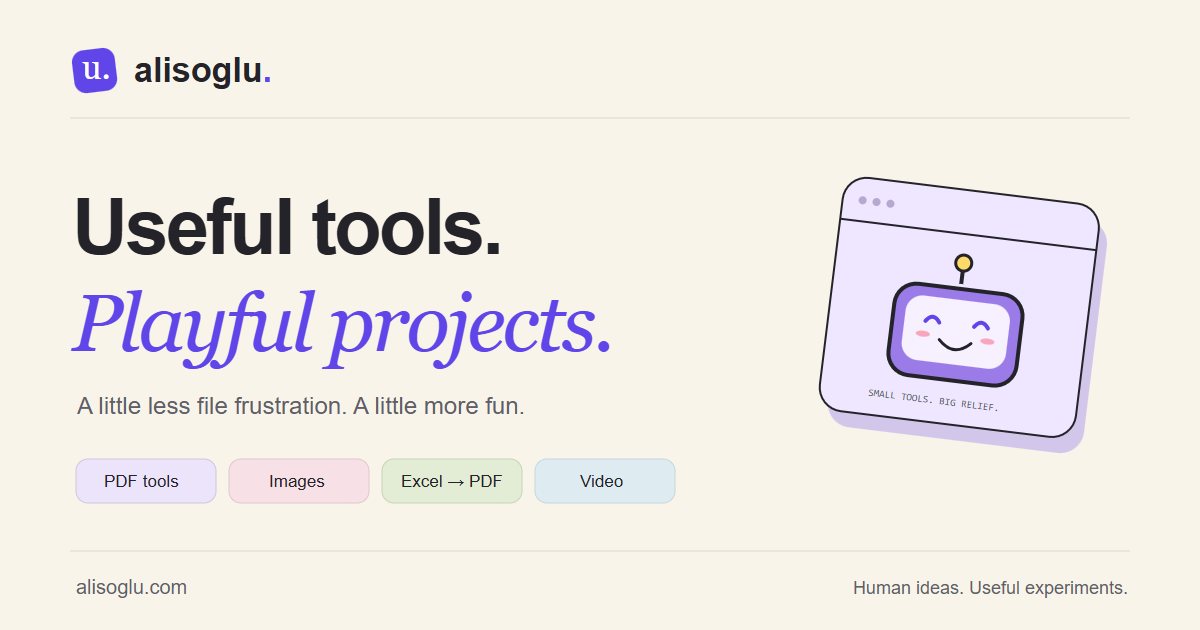
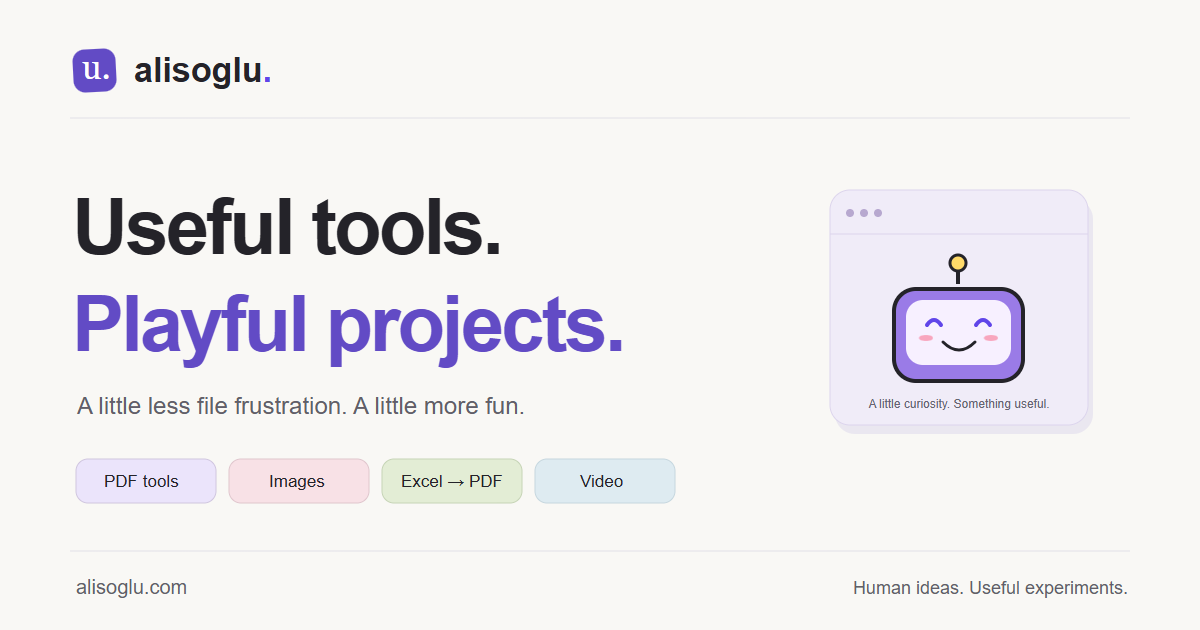
Refine site typography, surfaces and homepage illustration

diff --git a/site.css b/site.css
@@ -1,5 +1,5 @@
 /* Shared editorial layer. Tool controls live in src/fileforge/fileforge.css. */
-:root { --muted: #625e69; }
+:root { --paper: #f9f8f5; --ink: #282735; --muted: #656471; --line: #e3e1e8; --accent: #624bc5; --surface: #fff; }
 body { text-wrap: pretty; }
 input:focus-visible, select:focus-visible, summary:focus-visible { outline: 3px solid var(--accent); outline-offset: 4px; }
 .hub-header nav { gap: 25px; }
@@ -14,20 +14,20 @@ input:focus-visible, select:focus-visible, summary:focus-visible { outline: 3px 
 .home-hero h1 { font-size: clamp(47px, 5.3vw, 73px); }
 .home-hero .hero-description { font-size: 16px; line-height: 1.75; }
 .home-hero .hero-footnote { font-size: 9px; }
-.home-hero .takeover-scene { height: 370px; }
 .quick-tools { padding: 36px 0 30px; border-top: 1px solid var(--line); }
 .section-heading .text-link { padding-bottom: 5px; white-space: nowrap; }
 .task-grid { display: grid; grid-template-columns: repeat(3, minmax(0, 1fr)); gap: 18px; }
 .task-grid.compact { grid-template-columns: repeat(4, minmax(0, 1fr)); }
-.task-card { border: 1px solid #24232924; border-radius: 15px; padding: 26px; display: flex; flex-direction: column; min-width: 0; transition: transform .16s, box-shadow .16s; }
-.task-card:hover { transform: translateY(-4px); box-shadow: 4px 5px 0 #24232915; }
-.tone-purple { background: #ebe4fb; }
-.tone-pink { background: #f8e1e6; }
-.tone-mint { background: #e3edd5; }
-.tone-yellow { background: #f9ecc3; }
-.tone-blue { background: #deebf1; }
+.task-card { border: 1px solid var(--line); border-radius: 12px; padding: 26px; display: flex; flex-direction: column; min-width: 0; transition: transform .16s, box-shadow .16s, border-color .16s; }
+.task-card:hover { transform: translateY(-2px); box-shadow: 0 8px 24px #30264e0b; border-color: #c7bbdf; }
+.tone-purple { --tone: #eee9f8; background: var(--tone); }
+.tone-pink { --tone: #f8edf0; background: var(--tone); }
+.tone-mint { --tone: #eaf0e3; background: var(--tone); }
+.tone-yellow { --tone: #f6f0df; background: var(--tone); }
+.tone-blue { --tone: #e7eff4; background: var(--tone); }
+.task-grid .task-card { background: var(--surface); }
 .task-top { display: flex; justify-content: space-between; align-items: center; margin-bottom: 32px; }
-.task-icon { display: inline-grid; place-items: center; width: 45px; height: 45px; background: #fff9; border: 1px solid #24232920; border-radius: 12px; font-size: 29px; line-height: 1; }
+.task-icon { display: inline-grid; place-items: center; width: 45px; height: 45px; background: var(--tone); border: 1px solid #2423290a; border-radius: 10px; font-size: 27px; line-height: 1; color: #4b435d; }
 .task-number { color: #635e6b; font: 11px var(--mono); }
 .task-card h3 { margin: 0 0 7px; font-size: 22px; letter-spacing: -.6px; line-height: 1.3; }
 .task-card p { font-size: 13px; color: #5c5662; margin: 0 0 23px; }
@@ -38,7 +38,7 @@ input:focus-visible, select:focus-visible, summary:focus-visible { outline: 3px 
 .projects-feature { padding: 52px 0 66px; }
 .project-rows { border-top: 1px solid var(--line); }
 .project-row { display: grid; grid-template-columns: 66px minmax(0, 1fr) auto 26px; align-items: center; gap: 25px; padding: 27px 8px; border-bottom: 1px solid var(--line); transition: background .15s; }
-.project-row:hover { background: #eee8f38a; }
+.project-row:hover { background: #f0edf580; }
 .project-mini { display: grid; place-items: center; height: 66px; border-radius: 15px; font: italic 38px Georgia, serif; }
 .project-label { font: 9px/1.5 var(--mono); letter-spacing: 1px; color: #69616f; }
 .project-row h3 { font-size: 26px; letter-spacing: -.7px; margin: 3px 0; }
@@ -80,8 +80,8 @@ input:focus-visible, select:focus-visible, summary:focus-visible { outline: 3px 
 .steps-list li::before { content: '0' counter(steps); position: absolute; top: 1px; left: 0; font: 12px/31px var(--mono); color: var(--accent); background: #eae3f7; width: 31px; text-align: center; border-radius: 50%; }
 .steps-list h3 { margin: 0 0 6px; font-size: 16px; font-weight: 600; }
 .steps-list p { margin: 0; font-size: 13px; color: var(--muted); }
-.limit-note { align-self: start; background: #f6edcf; border: 1px solid #dfd2a8; border-radius: 5px 22px 5px 5px; padding: 28px; margin-top: 20px; position: relative; }
-.note-pin { position: absolute; top: -22px; right: 25px; color: var(--accent); font-size: 40px; }
+.limit-note { align-self: start; background: #f4f1e8; border: 1px solid #e4dfd1; border-radius: 12px; padding: 28px; margin-top: 20px; position: relative; }
+.note-pin { position: absolute; top: 12px; right: 20px; color: #aa9a74; font-size: 21px; }
 .limit-note h3 { font-size: 17px; margin: 0 0 10px; }
 .limit-note p { font-size: 13px; color: #62593f; margin: 0 0 24px; }
 .faq-section { display: grid; grid-template-columns: 1fr 2fr; gap: 55px; padding-bottom: 60px; }
@@ -94,7 +94,7 @@ input:focus-visible, select:focus-visible, summary:focus-visible { outline: 3px 
 .project-hero h1 { font-size: clamp(45px, 5vw, 67px); }
 .project-hero>div>p:not(.eyebrow) { color: var(--muted); font-size: 16px; margin-bottom: 28px; }
 .accent-dot { color: var(--accent); }
-.forge-art { position: relative; min-height: 355px; border: 1px solid #b9a9d7; border-radius: 18px; background: #e9dff8; padding: 28px; overflow: hidden; }
+.forge-art { position: relative; min-height: 355px; border: 1px solid #dbd4e8; border-radius: 16px; background: #efebf7; padding: 28px; overflow: hidden; }
 .art-label { font: 9px/1.5 var(--mono); letter-spacing: .9px; position: relative; z-index: 1; }
 .forge-logo { display: flex; align-items: center; gap: 15px; margin: 40px 0 28px; }
 .forge-logo strong { font-size: clamp(26px, 3.3vw, 42px); letter-spacing: -1.8px; }
@@ -102,7 +102,7 @@ input:focus-visible, select:focus-visible, summary:focus-visible { outline: 3px 
 .forge-formats { display: grid; grid-template-columns: 1fr 1fr; gap: 10px; }
 .forge-formats>span { padding: 9px 15px; font: 11px/1.5 var(--mono); border: 1px solid #c9b6e6; background: #ffffff75; border-radius: 7px; display: flex; justify-content: space-between; align-items: center; }
 .forge-formats b { color: var(--accent); }
-.art-sticker { position: absolute; top: 51px; right: -8px; background: var(--yellow); border: 1px solid #8d7742; padding: 8px 18px; font: italic 16px Georgia, serif; transform: rotate(9deg); }
+.art-sticker { position: absolute; top: 55px; right: 22px; background: #fff9; border: 1px solid #d9cfe9; border-radius: 100px; padding: 6px 12px; font: 12px/1.5 'Segoe UI', sans-serif; color: #635675; }
 .art-bottom { display: flex; align-items: center; gap: 8px; margin-top: 27px; font: 8px/1.6 var(--mono); letter-spacing: .5px; position: relative; z-index: 1; }
 .project-facts { display: grid; grid-template-columns: repeat(3, 1fr); border-block: 1px solid var(--line); padding-block: 23px; gap: 20px; }
 .project-facts>span { font-size: 13px; color: var(--muted); }
@@ -118,7 +118,7 @@ input:focus-visible, select:focus-visible, summary:focus-visible { outline: 3px 
 .comparison-table thead { background: #ece5fa; }
 .comparison-table tbody th { width: 20%; font-weight: 600; }
 .comparison-table td { width: 40%; color: var(--muted); }
-.release-panel { display: grid; grid-template-columns: 1fr 1.2fr; gap: 65px; background: #eae5f4; border: 1px solid #d5cce5; border-radius: 16px; padding: 40px; }
+.release-panel { display: grid; grid-template-columns: 1fr 1.2fr; gap: 65px; background: #f0edf6; border: 1px solid #ddd6e9; border-radius: 16px; padding: 40px; }
 .release-panel h2 { font-size: 32px; }
 .release-panel p { font-size: 13px; color: var(--muted); }
 .release-panel .steps-list { margin-top: 0; }
@@ -127,7 +127,7 @@ input:focus-visible, select:focus-visible, summary:focus-visible { outline: 3px 
 .editorial-list { padding-left: 20px; margin: 0 0 20px; font-size: 14px; color: var(--muted); }
 .editorial-list li { padding: 5px 0; }
 .inline-links { display: flex; flex-wrap: wrap; gap: 14px 22px; margin-top: 20px; }
-.project-screenshot { margin: 0; min-width: 0; border: 1px solid #c7d3dc; background: #dfebf2; border-radius: 12px; overflow: hidden; transform: rotate(1deg); box-shadow: 7px 8px 0 #dae0e6; }
+.project-screenshot { margin: 0; min-width: 0; border: 1px solid #d5dee5; background: #edf2f6; border-radius: 12px; overflow: hidden; box-shadow: 0 16px 40px #2835470b; }
 .project-screenshot img { display: block; width: 100%; }
 .project-screenshot figcaption { font-size: 10px; color: #4f5864; padding: 12px 16px; }
 .capability-grid { display: grid; grid-template-columns: repeat(3, 1fr); gap: 32px; padding-bottom: 52px; }
@@ -185,8 +185,8 @@ input:focus-visible, select:focus-visible, summary:focus-visible { outline: 3px 
 .prose a { color: var(--accent); text-decoration: underline; text-underline-offset: 3px; }
 .prose code { overflow-wrap: anywhere; font-size: 12px; }
 .contact-layout { display: grid; grid-template-columns: 1fr 1.6fr; gap: 40px; align-items: start; }
-.contact-card { background: #ece4f9; border: 1px solid #d3c7e5; border-radius: 16px; padding: 30px; }
-.contact-avatar { width: 62px; height: 62px; border-radius: 16px; background: var(--accent); color: white; text-align: center; font: 48px/58px Georgia, serif; transform: rotate(-7deg); margin: 0 0 24px; }
+.contact-card { background: #f0ecf7; border: 1px solid #ddd5e9; border-radius: 16px; padding: 30px; }
+.contact-avatar { width: 62px; height: 62px; border-radius: 16px; background: var(--accent); color: white; text-align: center; font: 48px/58px Georgia, serif; margin: 0 0 24px; }
 .contact-card h2 { font-size: 27px; }
 .contact-card p { font-size: 13px; color: var(--muted); }
 .contact-card hr { border: 0; border-top: 1px solid #d3c7e5; margin: 27px 0; }
@@ -205,6 +205,71 @@ input:focus-visible, select:focus-visible, summary:focus-visible { outline: 3px 
 .feedback-preview h3 { font-size: 18px; }
 .feedback-preview pre { white-space: pre-wrap; overflow-wrap: anywhere; background: #f4efe4; padding: 18px; border-radius: 6px; font: 12px/1.7 var(--mono); max-height: 300px; overflow-y: auto; }
 .contact-privacy { font-size: 13px; margin-top: 32px; color: var(--muted); }
+/* A consistent type scale and softer surfaces across the original hub components. */
+h1 { font-weight: 650; }
+h1 em { font-family: inherit; font-style: normal; font-weight: 600; letter-spacing: inherit; }
+.about-fresh em { font-family: inherit; font-style: normal; font-weight: 500; font-size: inherit; }
+.eyebrow, .section-heading .eyebrow, .home-hero .eyebrow { font: 600 10px/1.7 'Segoe UI', Arial, sans-serif; letter-spacing: 1.3px; }
+.home-hero h1 { letter-spacing: -2.8px; }
+.home-hero .hero-footnote { font: 12px/1.6 'Segoe UI', Arial, sans-serif; letter-spacing: 0; color: var(--muted); gap: 9px; }
+.hub-header .wordmark small { font: 10px/1.5 'Segoe UI', Arial, sans-serif; letter-spacing: .15px; color: var(--muted); }
+.hub-header .monogram { transform: rotate(-3deg); }
+.hub-header nav { gap: 23px; }
+.hub-header nav a { position: relative; }
+.hub-header nav [aria-current]:not(.nav-contact)::after { content: ''; position: absolute; inset-inline: 0; bottom: 0; height: 2px; border-radius: 2px; background: var(--accent); }
+.nav-contact { background: #fff9; }
+.button { min-height: 44px; border-radius: 8px; }
+.button.primary { background: var(--accent); box-shadow: 0 2px 5px #49328e12; }
+.button:hover { transform: translateY(-1px); box-shadow: 0 5px 14px #30264e15; }
+.hero-actions .button, .hero-actions .quiet-link { font-size: 13px; }
+.task-card p { line-height: 1.7; }
+.project-label { font: 600 10px/1.5 'Segoe UI', Arial, sans-serif; letter-spacing: .8px; }
+.row-status, .development-badge, .version-label { font: 500 11px/1.5 'Segoe UI', Arial, sans-serif; }
+.project-row p { font-size: 14px; }
+.project-row h3 { font-size: 24px; }
+.project-mini { border: 1px solid #28273508; border-radius: 12px; }
+.tool-panel, .download-card, .feedback-panel { background: var(--surface); border-color: var(--line); box-shadow: 0 4px 20px #30264e04; }
+.tool-hint { font-size: 13px; line-height: 1.75; }
+.tool-panel>.eyebrow { font-size: 10px; letter-spacing: .8px; }
+.drop-zone { background: #f8f6fc; border-color: #cec4e3; }
+.tool-options small, .inline-note { font-size: 12px; }
+.tool-nav small { font-size: 12px; }
+.local-badge { background: #f0f4ec; border-color: #d9e2d0; color: #48603a; font-weight: 500; }
+.project-facts strong { font-size: 12px; }
+.playground-section { background: #2e293b; border: 0; }
+.playground-copy .eyebrow { font-size: 10px; color: #c2b5e0; }
+.playground-copy h2 { font-size: 34px; line-height: 1.3; }
+.playground-copy h2 em { font-family: inherit; font-style: normal; color: #cab9f4; }
+.playground-copy>p:not(.eyebrow) { font-size: 14px; color: #ddd6e9; }
+.playground-copy>p.playground-note { font-size: 12px; color: #bdb4cd; }
+.prompt-machine { border: 1px solid #dcd5e7; border-radius: 12px; box-shadow: 0 16px 40px #17102022; background: white; }
+.machine-heading { background: #f2eff7; border-color: #e4dfed; color: #655a79; font: 12px/1.5 'Segoe UI', Arial, sans-serif; }
+.machine-badge { font: 9px/1.5 'Segoe UI', Arial, sans-serif; color: #736384; background: white; }
+#prompt-form { padding: 23px; }
+#prompt-form label { font-size: 13px; }
+#prompt-form textarea { font-size: 13px; color: var(--ink); }
+#prompt-form textarea::placeholder { color: #81798b; }
+.machine-footnote { font: 11px/1.7 'Segoe UI', Arial, sans-serif; color: #756c7e; background: #faf9fc; border-color: #ebe6f0; }
+.surprise-button { color: #655079; }
+.new-footer { border-top: 1px solid var(--line); }
+.new-footer .footer-brand { color: var(--ink); }
+.new-footer .footer-brand small { font-size: 11px; }
+.new-footer>div { font-size: 12px; color: var(--muted); }
+.new-footer .footer-note { font-size: 11px; border-top-style: solid; }
+
+/* The original mascot stays, now inside a quieter, aligned illustration. */
+.studio-visual { min-width: 0; background: #f0edf8; border: 1px solid #dbd5e6; border-radius: 16px; overflow: hidden; box-shadow: 0 16px 42px #30264e09; }
+.studio-toolbar { display: flex; align-items: center; gap: 15px; padding: 14px 20px; background: #fff; border-bottom: 1px solid #e1dce9; font-size: 11px; color: #746780; }
+.studio-mark { font: 23px/1 Georgia, serif; color: var(--accent); margin-left: auto; }
+.studio-canvas { display: grid; grid-template-columns: 1.1fr 1fr; align-items: center; gap: 12px; padding: 32px 25px; min-height: 245px; }
+.studio-canvas img { width: 210px; justify-self: center; }
+.studio-note { display: flex; align-items: baseline; gap: 9px; background: #ffffffab; border: 1px solid #e2d9ed; border-radius: 10px; padding: 16px 14px; font-size: 13px; line-height: 1.7; color: #756a83; }
+.studio-note strong { color: #41354e; font-weight: 600; }
+.studio-projects { display: grid; grid-template-columns: repeat(3, minmax(0,1fr)); padding: 16px 8px; border-top: 1px solid #e1dce9; background: #faf9fd; }
+.studio-projects a { display: flex; align-items: center; justify-content: center; gap: 10px; font-size: 11px; color: #655b75; border-right: 1px solid #e1dce9; }
+.studio-projects a:last-child { border: 0; }
+.studio-projects a:hover { color: var(--accent); }
+.studio-projects a span { color: #9384a9; }
 @media (min-width: 901px) { .compact .task-card { padding: 22px; } .compact .task-card h3 { font-size: 20px; } }
 @media (max-width: 1050px) {
   .hub-header nav { gap: 17px; }
@@ -236,13 +301,18 @@ input:focus-visible, select:focus-visible, summary:focus-visible { outline: 3px 
   .hub-header nav a { font-size: 12px; }
   .nav-contact { border: 0; padding: 8px 0 !important; }
   .home-hero { grid-template-columns: 1fr; padding-top: 40px; padding-bottom: 40px; }
-  .home-hero h1 { font-size: 55px; }
-  .home-hero .takeover-scene { height: 335px; width: min(400px, 100%); margin: 4px auto 0; }
+  .home-hero h1 { font-size: clamp(38px, 11vw, 52px); letter-spacing: -1.9px; }
   .home-hero .hero-description { font-size: 14px; }
-  .home-hero .hero-footnote { font-size: 8px; }
-  .hero .robot-stage { height: 200px; }
-  .hero .robot { width: 180px; height: 165px; }
-  .hero .speech-bubble { top: 35px; right: 15px; font-size: 17px; }
+  .home-hero .hero-footnote { font-size: 11px; }
+  .home-hero .studio-visual { width: 100%; max-width: 440px; margin: 8px auto 0; }
+  .studio-canvas { padding: 24px 17px; min-height: 205px; gap: 6px; }
+  .studio-canvas img { width: 170px; }
+  .studio-note { padding: 12px 10px; font-size: 11px; gap: 6px; }
+  .studio-projects a { gap: 7px; font-size: 10px; }
+  .playground-copy h2 { font-size: 29px; }
+  .playground-copy>p:not(.eyebrow) { font-size: 13px; }
+  .machine-actions .button { font-size: 11px; }
+  .project-row p { font-size: 13px; }
   .section-heading { gap: 15px; flex-wrap: wrap; align-items: start; }
   .section-heading h2 { font-size: 30px; }
   .task-card, .compact .task-card { padding: 19px; }
@@ -302,7 +372,7 @@ input:focus-visible, select:focus-visible, summary:focus-visible { outline: 3px 
 }
 @media (max-width: 380px) {
   .wrap { width: calc(100% - 32px); }
-  .home-hero h1 { font-size: 47px; }
+  .home-hero h1 { font-size: 37px; }
   .hub-header nav { gap: 4px 15px; }
   .task-grid, .task-grid.compact { grid-template-columns: 1fr; }
   .task-top { margin-bottom: 16px; }

diff --git a/index.html b/index.html
@@ -21,17 +21,11 @@
   <site-header></site-header>
   <main id="main">
     <section class="hero wrap home-hero" aria-labelledby="hero-title">
-      <div class="hero-copy"><p class="eyebrow"><span class="status-dot"></span> UMUT ALISOGLU’S LITTLE CORNER OF THE INTERNET</p><h1 id="hero-title">Useful tools.<br><em>Playful projects.</em></h1><p class="hero-description">Sort a PDF. Shrink a video. Make something click.<br>A collection of practical tools and curious experiments, with a little personality built in.</p><div class="hero-actions"><a class="button primary" href="#quick-tools">Find your tool <span aria-hidden="true">↓</span></a><a class="quiet-link" href="/projects/">Explore the projects <span aria-hidden="true">↗</span></a></div><p class="hero-footnote"><span class="tiny-spark" aria-hidden="true">✳</span> FREE BROWSER TOOLS. NO ACCOUNT. YOUR FILES STAY YOURS.</p></div>
-      <div class="takeover-scene" aria-label="A cheerful robot running Umut's idea workshop">
-        <div class="scene-grid"></div>
-        <div class="sticker human-approved">SMALL TOOLS.<br><strong>BIG RELIEF.</strong></div>
-        <div class="robot-window">
-          <div class="window-bar"><span class="window-dots"><i></i><i></i><i></i></span><span>the_little_workshop</span><span aria-hidden="true">↗</span></div>
-          <div class="robot-stage"><img class="robot" src="assets/robot.svg" width="230" height="200" alt="A smiling purple robot with a yellow antenna"><span class="speech-bubble">I can make<br>an app for that.</span></div>
-          <div class="robot-status"><span class="status-dot"></span> STATUS: MAKING THINGS USEFUL</div>
-        </div>
-        <div class="sticker idea-sticker">Umut: “Just one tool.”<br><strong>AI: “Define ‘one’.”</strong></div>
-        <span class="scene-spark spark-one" aria-hidden="true">✳</span><span class="scene-spark spark-two" aria-hidden="true">✳</span>
+      <div class="hero-copy"><p class="eyebrow"><span class="status-dot"></span> TOOLS &amp; PROJECTS BY UMUT ALISOGLU</p><h1 id="hero-title">Useful tools.<br><em>Playful projects.</em></h1><p class="hero-description">Sort a PDF. Shrink a video. Make something click.<br>A collection of practical tools and curious experiments, with a little personality built in.</p><div class="hero-actions"><a class="button primary" href="#quick-tools">Find your tool <span aria-hidden="true">↓</span></a><a class="quiet-link" href="/projects/">Explore the projects <span aria-hidden="true">↗</span></a></div><p class="hero-footnote"><span class="status-dot" aria-hidden="true"></span> Free to use. No account. Files processed locally.</p></div>
+      <div class="studio-visual">
+        <div class="studio-toolbar"><span class="window-dots" aria-hidden="true"><i></i><i></i><i></i></span><span>From idea to useful</span><span class="studio-mark" aria-hidden="true">u.</span></div>
+        <div class="studio-canvas"><img src="/assets/robot.svg" width="230" height="200" alt="The Alisoglu workshop’s friendly purple robot"><div class="studio-note"><span class="status-dot" aria-hidden="true"></span><span>A little curiosity.<br><strong>Something useful.</strong></span></div></div>
+        <div class="studio-projects"><a href="/projects/fileforge/">FileForge <span aria-hidden="true">↗</span></a><a href="/projects/repodock/">Repodock <span aria-hidden="true">↗</span></a><a href="/projects/skate-scape/">Skate Scape <span aria-hidden="true">↗</span></a></div>
       </div>
     </section>
     <section class="quick-tools wrap" id="quick-tools" aria-labelledby="quick-title"><div class="section-heading"><div><p class="eyebrow">LESS FRICTION / MORE FINISHED</p><h2 id="quick-title">What needs doing?</h2></div><a class="text-link" href="/tools/">All five tools <span aria-hidden="true">→</span></a></div>
@@ -40,24 +34,24 @@
 <a class="task-card tone-blue" href="/tools/video-compressor/"><span class="task-top"><span class="task-icon" aria-hidden="true">▷</span><span class="task-number">03</span></span><h3>Video compressor</h3><p>A smaller MP4</p><span class="task-open">Open tool <span aria-hidden="true">↗</span></span></a>
 <a class="task-card tone-mint" href="/tools/excel-to-pdf/"><span class="task-top"><span class="task-icon" aria-hidden="true">▤</span><span class="task-number">04</span></span><h3>Excel → PDF</h3><p>Tables ready to share</p><span class="task-open">Open tool <span aria-hidden="true">↗</span></span></a></div>
     <p class="tools-footnote"><span class="status-dot"></span> Powered by FileForge. Processing happens on your device. <a href="/privacy/">See how →</a></p></section>
-    <section class="wrap projects-feature" aria-labelledby="projects-title"><div class="section-heading"><div><p class="eyebrow">BUILT FROM “WOULDN’T IT BE HANDY IF…”</p><h2 id="projects-title">Small ideas. Real projects.</h2></div><a class="text-link" href="/projects/">Behind the builds →</a></div><div class="project-rows">
+    <section class="wrap projects-feature" aria-labelledby="projects-title"><div class="section-heading"><div><p class="eyebrow">SELECTED PROJECTS</p><h2 id="projects-title">Small ideas. Real projects.</h2></div><a class="text-link" href="/projects/">Behind the builds →</a></div><div class="project-rows">
 <a class="project-row" href="/projects/fileforge/"><span class="project-mini tone-purple"><img src="/assets/fileforge.svg" width="38" height="38" alt=""></span><span><span class="project-label">BROWSER TOOLS + WINDOWS APP</span><h3>FileForge</h3><p>Less file frustration. More getting things done.</p></span><span class="row-status">Available</span><span class="row-arrow" aria-hidden="true">↗</span></a>
 <a class="project-row" href="/projects/repodock/"><span class="project-mini tone-blue" aria-hidden="true">r.</span><span><span class="project-label">LOCAL PROJECT LAUNCHER</span><h3>Repodock</h3><p>A home for the GitHub projects you actually want to run.</p></span><span class="row-status">Windows app</span><span class="row-arrow" aria-hidden="true">↗</span></a>
 <a class="project-row" href="/projects/skate-scape/"><span class="project-mini tone-mint" aria-hidden="true">↗</span><span><span class="project-label">GAME EXPERIMENT</span><h3>Skate Scape</h3><p>Tricks, combos and a world to explore in your browser.</p></span><span class="row-status">Early access</span><span class="row-arrow" aria-hidden="true">↗</span></a>
 </div></section>
     <section class="playground-section" id="playground" aria-labelledby="playground-title">
       <div class="wrap playground-grid">
-        <div class="playground-copy"><p class="eyebrow">A SMALL DETOUR / THE IDEA MACHINE</p><h2 id="playground-title">An annoyance today.<br><em>An app idea tomorrow.</em></h2><p>Got a task that makes you sigh dramatically? Turn it into a starting prompt. Or let the idea machine pick one.</p><p class="playground-note">This little workshop writes a prompt in your browser. Take it to your AI tool of choice for the actual building.</p><span class="doodle-arrow" aria-hidden="true">↱</span></div>
+        <div class="playground-copy"><p class="eyebrow">THE IDEA MACHINE</p><h2 id="playground-title">An annoyance today.<br><em>An app idea tomorrow.</em></h2><p>Turn an everyday problem into a starting prompt for your next project. Bring your own idea, or try a suggestion.</p><p class="playground-note">This little workshop writes a prompt in your browser. Take it to your AI tool of choice for the actual building.</p></div>
         <div class="prompt-machine">
-          <div class="machine-heading"><span class="window-dots"><i></i><i></i><i></i></span><span>the_idea_machine</span><span class="machine-badge">BRAINSTORM MODE</span></div>
-          <form id="prompt-form"><label for="problem-input">What’s mildly ruining your day?</label><textarea id="problem-input" rows="3" maxlength="600" placeholder="My Downloads folder looks like it lost a fight." required></textarea><div class="machine-actions"><button class="button primary" type="submit">Make it a prompt <span aria-hidden="true">↗</span></button><button class="surprise-button" id="surprise-button" type="button">Surprise me <span aria-hidden="true">⚄</span></button></div></form>
+          <div class="machine-heading"><span class="window-dots"><i></i><i></i><i></i></span><span>Idea machine</span><span class="machine-badge">BRAINSTORM MODE</span></div>
+          <form id="prompt-form"><label for="problem-input">What would you like to make easier?</label><textarea id="problem-input" rows="3" maxlength="600" placeholder="I’d like a simpler way to organise my Downloads folder." required></textarea><div class="machine-actions"><button class="button primary" type="submit">Make it a prompt <span aria-hidden="true">↗</span></button><button class="surprise-button" id="surprise-button" type="button">Surprise me <span aria-hidden="true">⚄</span></button></div></form>
           <div class="prompt-result" id="prompt-result" hidden><div class="result-label"><span>YOUR NEXT “CAN YOU BUILD THIS?”</span><button id="copy-prompt" type="button">Copy prompt ↗</button></div><p id="prompt-output" aria-live="polite"></p><p id="copy-status" class="copy-status" role="status" aria-live="polite"></p></div>
           <noscript><p class="machine-footnote">Enable JavaScript to use the prompt playground, or take your idea straight to your AI tool.</p></noscript>
           <p class="machine-footnote">No account. No upload. Just a tiny nudge toward the next useful thing.</p>
         </div>
       </div>
     </section>
-    <section class="wrap about-fresh" id="about" aria-labelledby="about-title"><div><p class="eyebrow">THE HUMAN BEHIND THE BUTTONS</p><h2 id="about-title">Hi, I’m Umut.<br><em>I like making things useful.</em></h2></div><div><p>This is where my practical ideas and playful experiments get a home. Some become browser tools, some become desktop apps, and some are still finding their feet.</p><p>AI helps with much of the code. I choose the direction, try things out and keep improving the results. The project pages explain what works today and where the limits are.</p><a class="text-link" href="/contact/">Found a bug? Have an idea? Say hello ↗</a></div></section>
+    <section class="wrap about-fresh" id="about" aria-labelledby="about-title"><div><p class="eyebrow">ABOUT UMUT</p><h2 id="about-title">Hi, I’m Umut.<br><em>I like making things useful.</em></h2></div><div><p>This is where my practical ideas and playful experiments get a home. Some become browser tools, some become desktop apps, and some are still finding their feet.</p><p>AI helps with much of the code. I choose the direction, try things out and keep improving the results. The project pages explain what works today and where the limits are.</p><a class="text-link" href="/contact/">Found a bug? Have an idea? Say hello ↗</a></div></section>
   </main>
   <site-footer></site-footer>
 </body>

diff --git a/src/site/templates.js b/src/site/templates.js
@@ -22,7 +22,7 @@ function header(path) {
   <nav aria-label="Main navigation">${navigation.map(([href, label]) => `<a href="${href}"${(href === '/' ? path === '/' : path.startsWith(href)) ? ` aria-current="${path === href ? 'page' : 'true'}"` : ''}>${label}</a>`).join('')}<a href="/contact/" class="nav-contact"${path === '/contact/' ? ' aria-current="page"' : ''}>Say hello <span aria-hidden="true">↗</span></a></nav>
 </header>`;
 }
-const footer = `<footer class="site-footer wrap new-footer"><a class="footer-brand" href="/">alisoglu<span>.</span><small>Human ideas. Useful experiments.</small></a><div><a href="/#about">About Umut</a><a href="/contact/">Contact & feedback</a><a href="/privacy/">Privacy</a><a href="https://github.com/UmutAlisoglu/umutalisoglu.github.io">Website source ↗</a><a href="/THIRD_PARTY_NOTICES.md">Credits</a></div><p class="footer-note">Made with curiosity, a little AI help, and probably one more button.</p></footer>`;
+const footer = `<footer class="site-footer wrap new-footer"><a class="footer-brand" href="/">alisoglu<span>.</span><small>Human ideas. Useful experiments.</small></a><div><a href="/#about">About Umut</a><a href="/contact/">Contact & feedback</a><a href="/privacy/">Privacy</a><a href="https://github.com/UmutAlisoglu/umutalisoglu.github.io">Website source ↗</a><a href="/THIRD_PARTY_NOTICES.md">Credits</a></div><p class="footer-note">Personal projects by Umut Alisoglu. Built with AI assistance.</p></footer>`;
 
 // Vite expands these fragments into ordinary HTML, before bundling scripts and styles.
 // Visitors receive the complete page; shared navigation needs no JavaScript.

diff --git a/LEARN.md b/LEARN.md
@@ -106,8 +106,14 @@ The contact page links to **umu@alisoglu.com**, the address you supplied. A `mai
 
 The social sharing image is drawn in `assets/social-card.svg`. To regenerate its PNG after editing the SVG, run `node scripts/render-social-card.mjs` with Google Chrome installed. Then build again. This image is used by the pages’ Open Graph metadata.
 
-Design changes use the existing cream background, purple accent, colourful task cards and robot illustration. `site.css` adds responsive layouts; `prefers-reduced-motion` disables decorative transitions for visitors who request less motion. Skate Scape’s illustration is explicitly a project illustration, not a gameplay screenshot.
+Design changes use an off-white background, purple accent, colourful tool icons and the original robot illustration. `site.css` adds responsive layouts; `prefers-reduced-motion` disables decorative transitions for visitors who request less motion. Skate Scape’s illustration is explicitly a project illustration, not a gameplay screenshot.
 
 Checks for this update: all 16 destinations and internal anchors, real image/PDF/spreadsheet exports, the existing video encoder, PDF page operations and image batches. Hub and FileForge runtime requests were checked for same-site GETs only; the separately deployed game is outside those conversion tests. No selected files or feedback drafts were uploaded during testing.
 
 A newer commit from Claude published the Skate Scape launch link while this redesign was being prepared. Git refused to overwrite that remote history. We fetched and merged it, kept the Play link, and updated the new project page, privacy notes and status labels to match. This preserves both sets of work without a force push.
+
+## Making the design a little more professional
+
+The visual polish lives mainly in `site.css`. The variables at the top set the shared background, text, border and purple accent colours. White cards with thin borders make the colourful icons easier to pick out; consistent sans-serif headings, spacing and buttons make the pages feel related. The homepage illustration in `index.html` now sits in an aligned panel with direct project links, while keeping the friendly robot.
+
+To experiment, change one colour or spacing value, run `npm run dev`, and compare the homepage, a tool page and a project page at desktop and phone widths. Use the browser's responsive device view to check narrow screens. CSS changes presentation; the conversion workers still run the existing tools locally in the visitor's browser. Shared footer wording is in `src/site/templates.js`, and the matching link-preview image is in `assets/social-card.svg`.
